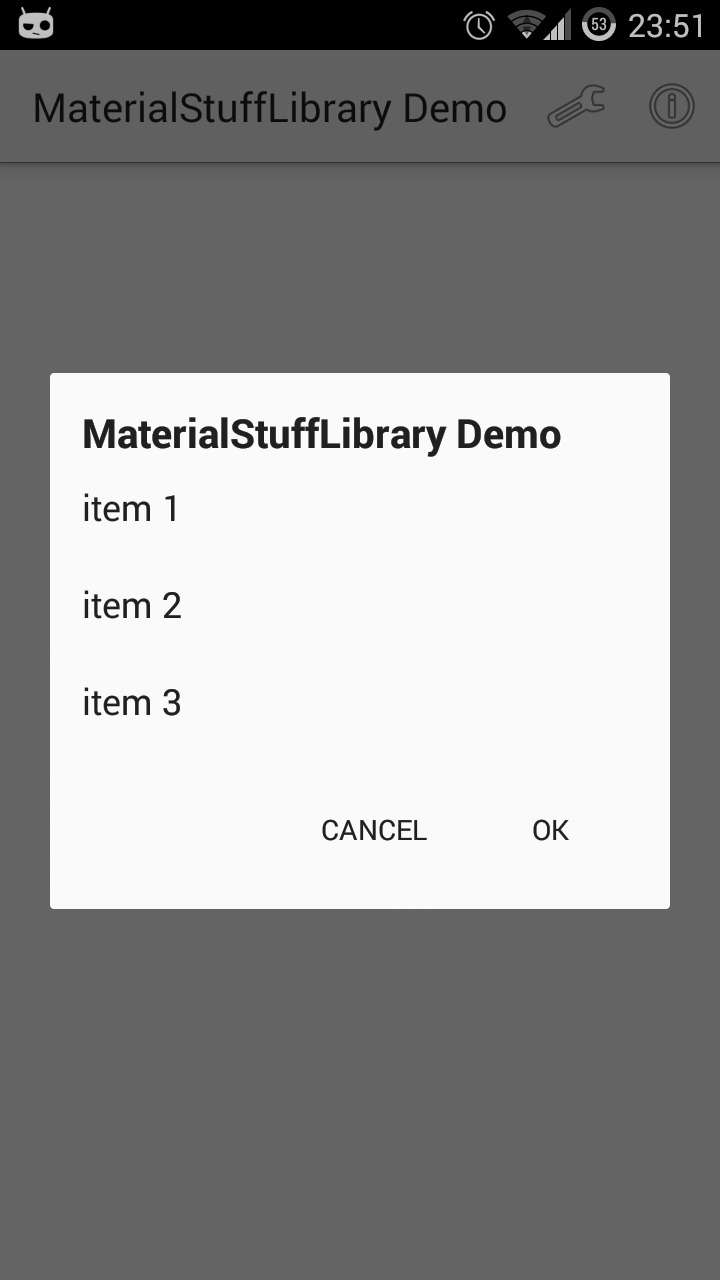
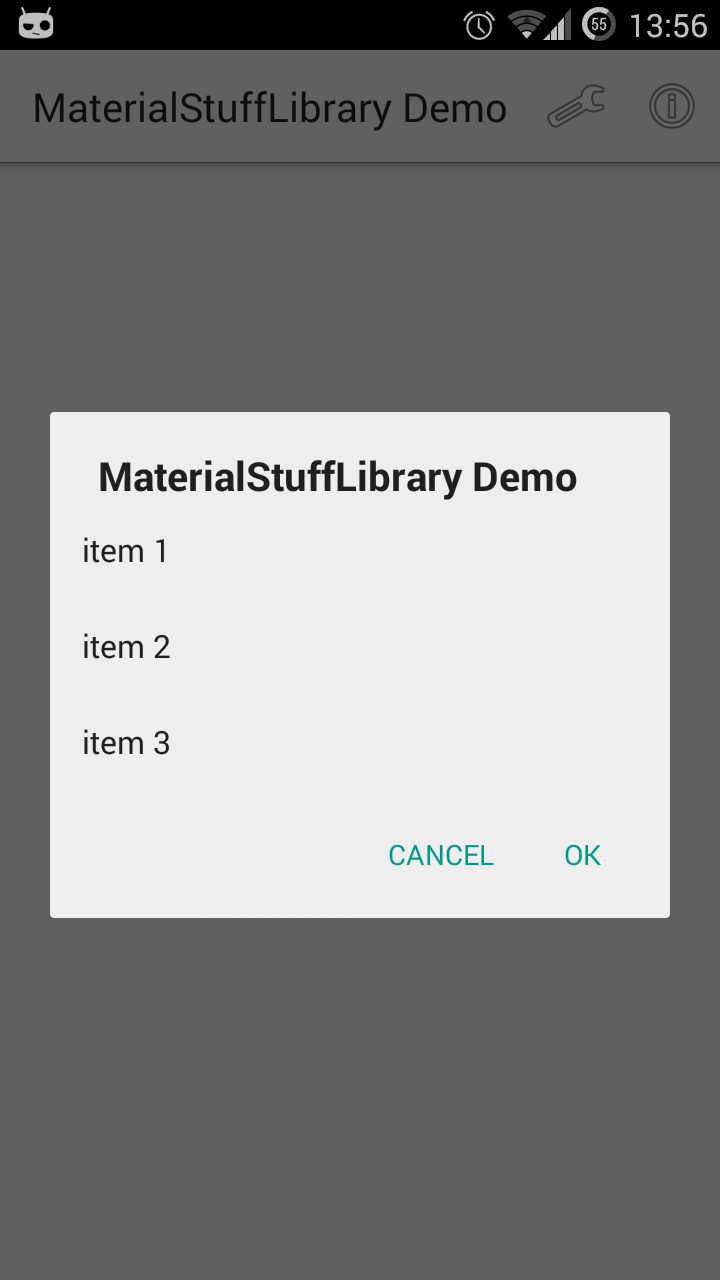
updated demo and also its screenshot

diff --git a/Demo/src/com/lb/material_stuff_library/demo/MainActivity.java b/Demo/src/com/lb/material_stuff_library/demo/MainActivity.java
@@ -8,8 +8,8 @@ import android.support.v7.app.ActionBarActivity;
 import android.view.Menu;
 import android.view.MenuItem;
 import android.view.View;
+import com.alertdialogpro.AlertDialogPro;
 import com.alertdialogpro.demo.R;
-import com.lb.material_stuff_library.AlertDialogPro;
 
 public class MainActivity extends ActionBarActivity implements View.OnClickListener
   {
